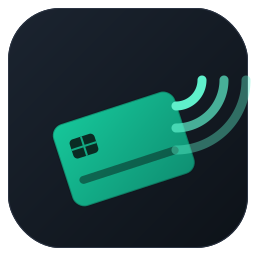
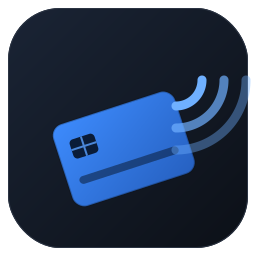
Tema azul: nueva paleta con azul como color principal
Cambia el acento verde-teal por azul y armoniza fondo, consola, estados
e icono para diferenciarlo del GUI del WHID (que queda en verde).

Claude-Session: https://claude.ai/code/session_014HLoZssC27RU2acpukCTVp

Changed region(s): [[0.1875, 0.2812, 1.0, 0.8125]]

diff --git a/pm3gui/theme.py b/pm3gui/theme.py
@@ -1,19 +1,19 @@
 """Hoja de estilo (QSS) para un aspecto oscuro y limpio."""
 
-# Paleta
-BG = "#0f1419"          # fondo general
-PANEL = "#171d26"       # paneles
-PANEL_2 = "#1e2631"     # elementos elevados
-BORDER = "#2b3443"
-TEXT = "#e6edf3"
-MUTED = "#8b98a9"
-ACCENT = "#16c79a"      # verde-teal (motivo RFID)
-ACCENT_DK = "#0fa07c"
-CONSOLE_BG = "#0a0e13"
-CONSOLE_TEXT = "#c8f7e4"
-OK = "#16c79a"
-BAD = "#ef5350"
-WARN = "#f5a623"
+# Paleta (azul como color principal; el resto armoniza con él)
+BG = "#0e141d"          # fondo general (azul muy oscuro)
+PANEL = "#151d2a"       # paneles
+PANEL_2 = "#1c2736"     # elementos elevados
+BORDER = "#2a3850"
+TEXT = "#e8eef7"
+MUTED = "#8a99b3"
+ACCENT = "#3d8bfd"      # azul principal
+ACCENT_DK = "#2f72d8"
+CONSOLE_BG = "#0a0f17"
+CONSOLE_TEXT = "#bcd6ff"  # azul claro para la consola
+OK = "#3d8bfd"          # "conectado" en el azul principal
+BAD = "#ef5f5f"         # error (rojo cálido que combina con el azul)
+WARN = "#f0a63a"        # aviso (ámbar)
 
 STYLESHEET = f"""
 * {{
@@ -82,13 +82,13 @@ QPushButton:disabled {{
 /* Botón primario (Ejecutar) */
 QPushButton#primary {{
     background: {ACCENT};
-    color: #07130f;
+    color: #06101f;
     font-weight: 700;
     border: none;
     text-align: center;
 }}
 QPushButton#primary:hover {{ background: {ACCENT_DK}; }}
-QPushButton#primary:disabled {{ background: #2b4b41; color: #6f8a81; }}
+QPushButton#primary:disabled {{ background: #26374f; color: #71839e; }}
 
 QPushButton#danger {{
     background: transparent;
